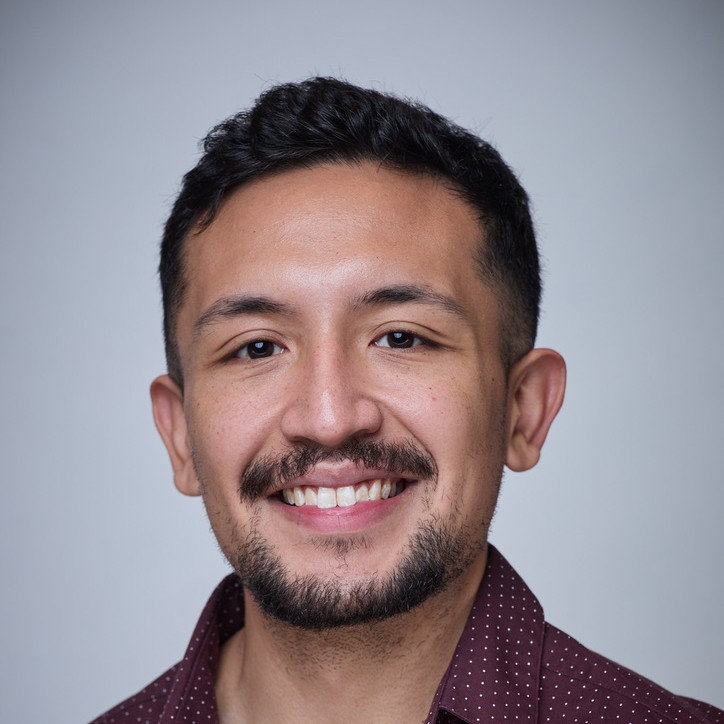
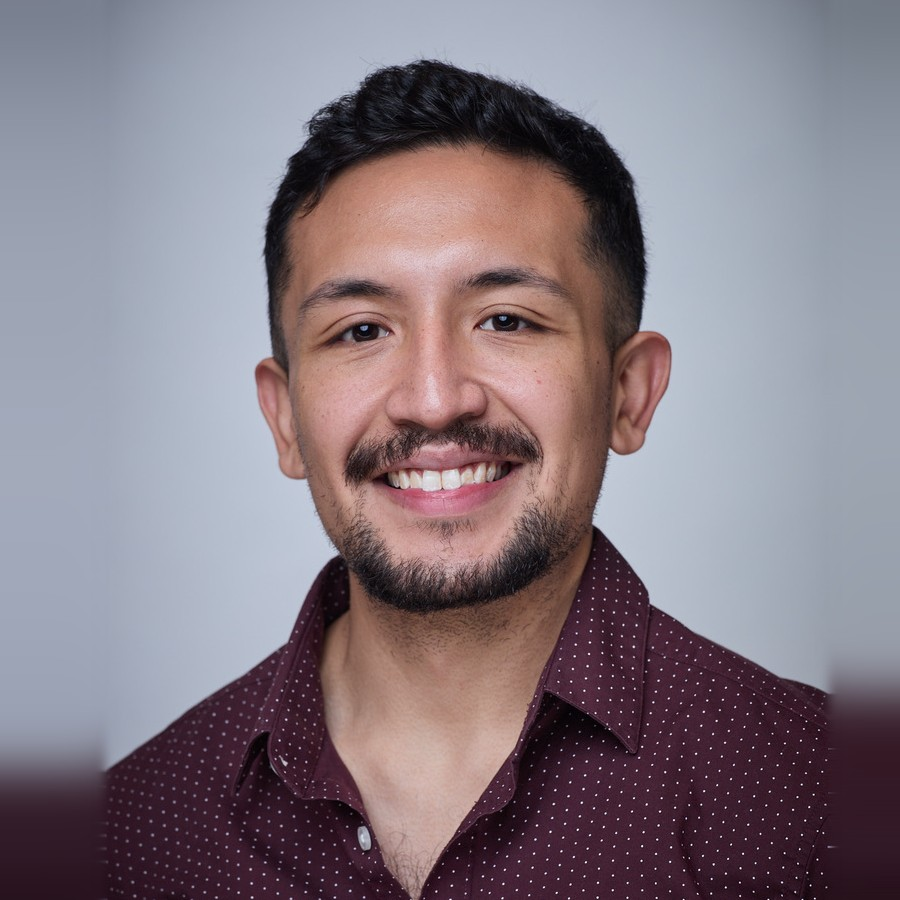
Widen portrait crop to show shoulders
Claude-Session: https://claude.ai/code/session_01HYSHaqFMsLxu5Dc2zcpBok

diff --git a/site/index.html b/site/index.html
@@ -6,7 +6,7 @@
 <title>Jesus E. Vazquez</title>
 <meta name="description" content="Jesus E. Vazquez, Postdoctoral Fellow in Biostatistics at Johns Hopkins. Statistical methods for incomplete and distributed data.">
 <link rel="icon" href="data:,">
-<link rel="stylesheet" href="/assets/style.css?v=20261005163255">
+<link rel="stylesheet" href="/assets/style.css?v=20261005163450">
 </head>
 <body>
 <header class="site-header"><div class="wrap bar">
@@ -26,7 +26,7 @@
     </p>
     <p class="links"><a href="https://scholar.google.com/citations?user=QywOz04AAAAJ" target="_blank" rel="noopener">Google Scholar</a> <a href="https://orcid.org/0000-0002-3166-1632" target="_blank" rel="noopener">ORCID</a> <a href="https://github.com/jesusepfvazquez" target="_blank" rel="noopener">GitHub</a> <a href="https://www.linkedin.com/in/jesusepfvazquez/" target="_blank" rel="noopener">LinkedIn</a> <a class="mail" data-u="jvazqu18" data-d="jh.edu" href="#">Email</a></p>
   </div>
-  <figure class="portrait"><img src="/assets/jesus_circle.jpg?v=20261005163255" alt="Portrait of Jesus E. Vazquez" width="800" height="800"></figure>
+  <figure class="portrait"><img src="/assets/jesus_circle.jpg?v=20261005163450" alt="Portrait of Jesus E. Vazquez" width="800" height="800"></figure>
 </section>
 
 <section class="wrap section" id="about">
@@ -73,6 +73,6 @@
     <div class="muted">Updated October 5, 2026</div>
   </div>
 </div></footer>
-<script src="/assets/site.js?v=20261005163255"></script>
+<script src="/assets/site.js?v=20261005163450"></script>
 </body>
 </html>

diff --git a/site/research/index.html b/site/research/index.html
@@ -6,7 +6,7 @@
 <title>Research · Jesus E. Vazquez</title>
 <meta name="description" content="Research areas and papers: right-censored covariates, causal inference, federated learning, and Huntington disease applications.">
 <link rel="icon" href="data:,">
-<link rel="stylesheet" href="/assets/style.css?v=20261005163255">
+<link rel="stylesheet" href="/assets/style.css?v=20261005163450">
 </head>
 <body>
 <header class="site-header"><div class="wrap bar">
@@ -35,6 +35,6 @@
     <div class="muted">Updated October 5, 2026</div>
   </div>
 </div></footer>
-<script src="/assets/site.js?v=20261005163255"></script>
+<script src="/assets/site.js?v=20261005163450"></script>
 </body>
 </html>

diff --git a/site/presentations/index.html b/site/presentations/index.html
@@ -6,7 +6,7 @@
 <title>Presentations · Jesus E. Vazquez</title>
 <meta name="description" content="Presentations by Jesus E. Vazquez: slides and posters linked to papers on incomplete data and causal inference.">
 <link rel="icon" href="data:,">
-<link rel="stylesheet" href="/assets/style.css?v=20261005163255">
+<link rel="stylesheet" href="/assets/style.css?v=20261005163450">
 </head>
 <body>
 <header class="site-header"><div class="wrap bar">
@@ -77,6 +77,6 @@
     <div class="muted">Updated October 5, 2026</div>
   </div>
 </div></footer>
-<script src="/assets/site.js?v=20261005163255"></script>
+<script src="/assets/site.js?v=20261005163450"></script>
 </body>
 </html>

diff --git a/site/work-with-me/index.html b/site/work-with-me/index.html
@@ -6,7 +6,7 @@
 <title>Work with me · Jesus E. Vazquez</title>
 <meta name="description" content="Work with Jesus E. Vazquez: mentoring values and an interest form for students and collaborators.">
 <link rel="icon" href="data:,">
-<link rel="stylesheet" href="/assets/style.css?v=20261005163255">
+<link rel="stylesheet" href="/assets/style.css?v=20261005163450">
 </head>
 <body>
 <header class="site-header"><div class="wrap bar">
@@ -42,6 +42,6 @@
     <div class="muted">Updated October 5, 2026</div>
   </div>
 </div></footer>
-<script src="/assets/site.js?v=20261005163255"></script>
+<script src="/assets/site.js?v=20261005163450"></script>
 </body>
 </html>

diff --git a/site/publications/index.html b/site/publications/index.html
@@ -6,7 +6,7 @@
 <title>Publications · Jesus E. Vazquez</title>
 <meta name="description" content="Journal articles, preprints, and conference abstracts by Jesus E. Vazquez.">
 <link rel="icon" href="data:,">
-<link rel="stylesheet" href="/assets/style.css?v=20261005163255">
+<link rel="stylesheet" href="/assets/style.css?v=20261005163450">
 </head>
 <body>
 <header class="site-header"><div class="wrap bar">
@@ -42,6 +42,6 @@
     <div class="muted">Updated October 5, 2026</div>
   </div>
 </div></footer>
-<script src="/assets/site.js?v=20261005163255"></script>
+<script src="/assets/site.js?v=20261005163450"></script>
 </body>
 </html>

diff --git a/site/cv/index.html b/site/cv/index.html
@@ -6,7 +6,7 @@
 <title>CV · Jesus E. Vazquez</title>
 <meta name="description" content="Curriculum vitae of Jesus E. Vazquez.">
 <link rel="icon" href="data:,">
-<link rel="stylesheet" href="/assets/style.css?v=20261005163255">
+<link rel="stylesheet" href="/assets/style.css?v=20261005163450">
 </head>
 <body>
 <header class="site-header"><div class="wrap bar">
@@ -38,6 +38,6 @@
     <div class="muted">Updated October 5, 2026</div>
   </div>
 </div></footer>
-<script src="/assets/site.js?v=20261005163255"></script>
+<script src="/assets/site.js?v=20261005163450"></script>
 </body>
 </html>
